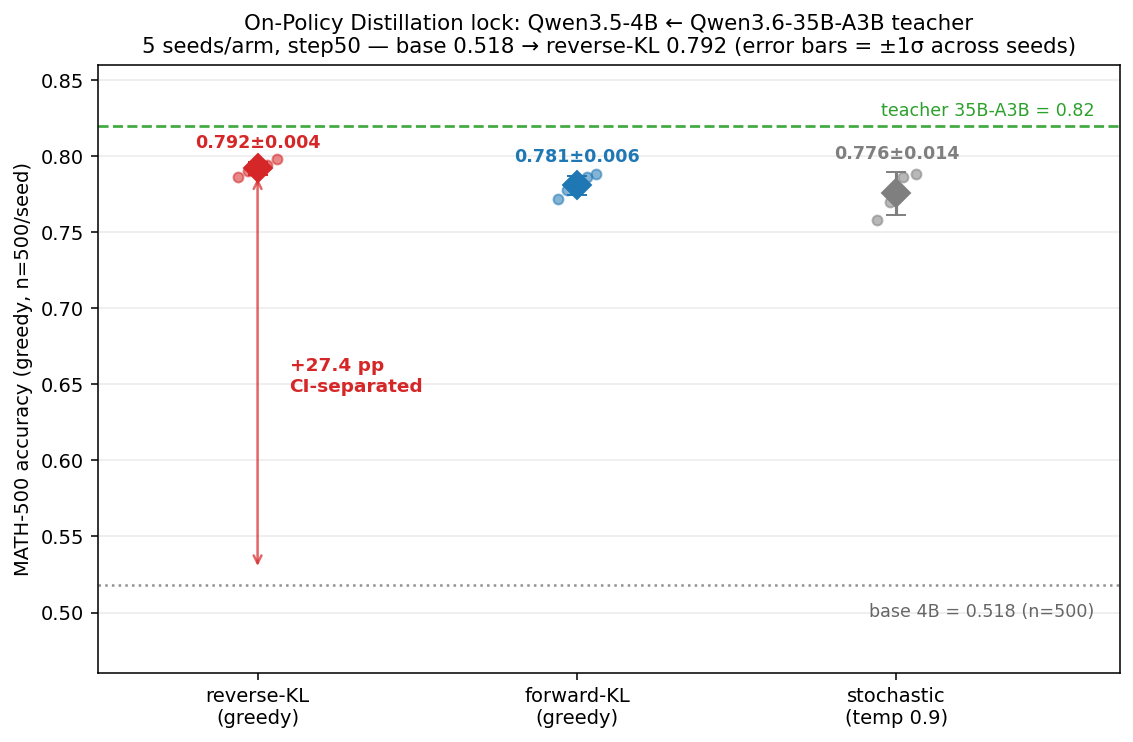
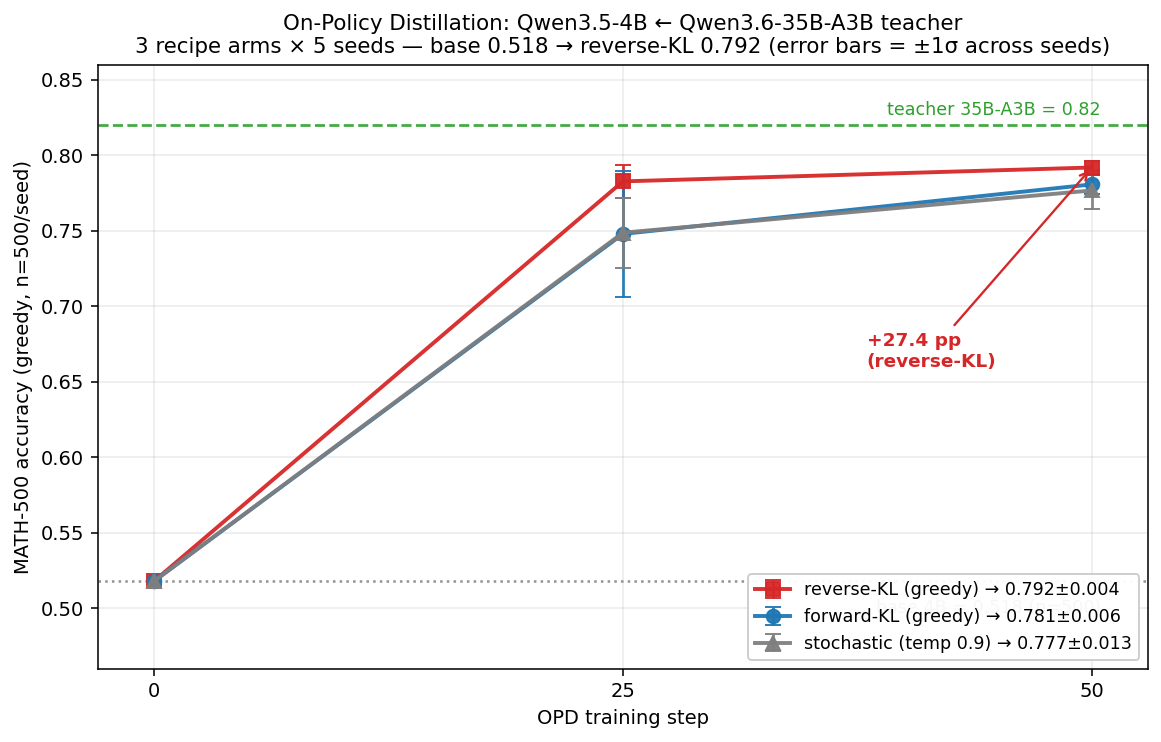
docs(opd): finalize multi-seed curve — full base→25→50 trajectory, all 5 seeds
Complete data (31 evals, n=500, 0 errors): adds the step25 trajectory
(reverse-KL near-converged early 0.783±0.011; fwd-KL noisy 0.748±0.042 w/
seed3=0.678 outlier; stochastic 0.749±0.023) + stochastic 5th seed
(0.777±0.013). Curve is now a base→25→50 trajectory. Honest caveat added:
reverse-KL leads but is only borderline CI-separated from fwd-KL at n=5;
base-vs-students (+26-27pp) is overwhelming. Docs/measurement only.

diff --git a/docs/assets/plot_opd_multiseed_curve.py b/docs/assets/plot_opd_multiseed_curve.py
@@ -1,6 +1,7 @@
 #!/usr/bin/env python3
-"""OPD multi-seed lock — Qwen3.5-4B student ← Qwen3.6-35B-A3B teacher, MATH-500.
-3 recipe arms × 5 seeds × step50, each n=500 greedy @4096 tokens, 0 request_error.
+"""OPD multi-seed capability curve — Qwen3.5-4B student ← Qwen3.6-35B-A3B teacher, MATH-500.
+3 recipe arms × 5 seeds × {step25, step50}, each n=500 greedy @4096 tokens, 0 request_error.
+Trajectory base(step0) → step25 → step50, error bars = ±1σ across seeds.
 Regenerate: python3 docs/assets/plot_opd_multiseed_curve.py
 """
 import matplotlib
@@ -9,39 +10,38 @@ import matplotlib.pyplot as plt
 import numpy as np
 
 BASE, TEACHER = 0.518, 0.82
-# per-seed step50 accuracies (n=500 each)
-arms = [
-    ("reverse-KL\n(greedy)", [0.786, 0.790, 0.792, 0.794, 0.798], "#d62728"),
-    ("forward-KL\n(greedy)", [0.772, 0.778, 0.780, 0.786, 0.788], "#1f77b4"),
-    ("stochastic\n(temp 0.9)", [0.758, 0.770, 0.786, 0.788], "#7f7f7f"),
-]
+# per-seed accuracies: arm -> {step: [5 seeds]}
+data = {
+    "reverse-KL (greedy)":  ({25: [0.782, 0.796, 0.778, 0.790, 0.768], 50: [0.786, 0.790, 0.792, 0.794, 0.798]}, "#d62728", "s"),
+    "forward-KL (greedy)":  ({25: [0.752, 0.786, 0.774, 0.678, 0.750], 50: [0.772, 0.778, 0.780, 0.786, 0.788]}, "#1f77b4", "o"),
+    "stochastic (temp 0.9)":({25: [0.762, 0.770, 0.750, 0.710, 0.752], 50: [0.770, 0.788, 0.758, 0.786, 0.782]}, "#7f7f7f", "^"),
+}
 
-fig, ax = plt.subplots(figsize=(8.2, 5.4), dpi=140)
+fig, ax = plt.subplots(figsize=(8.4, 5.4), dpi=140)
 ax.axhline(TEACHER, ls="--", lw=1.4, color="#2ca02c", alpha=0.9)
-ax.text(2.62, TEACHER + 0.004, "teacher 35B-A3B = 0.82", color="#2ca02c", fontsize=9, ha="right", va="bottom")
+ax.text(50.5, TEACHER + 0.004, "teacher 35B-A3B = 0.82", color="#2ca02c", fontsize=9, ha="right", va="bottom")
 ax.axhline(BASE, ls=":", lw=1.3, color="#888888", alpha=0.9)
-ax.text(2.62, BASE - 0.012, "base 4B = 0.518 (n=500)", color="#666666", fontsize=9, ha="right", va="top")
+ax.text(50.5, BASE - 0.012, "base 4B = 0.518 (n=500)", color="#666666", fontsize=9, ha="right", va="top")
 
-for i, (name, accs, color) in enumerate(arms):
-    accs = np.array(accs)
-    m, sd = accs.mean(), accs.std(ddof=1)
-    ax.scatter(np.full_like(accs, i) + np.linspace(-0.06, 0.06, len(accs)), accs,
-               s=26, color=color, alpha=0.55, zorder=3)
-    ax.errorbar(i, m, yerr=sd, marker="D", ms=10, color=color, capsize=5, lw=2, elinewidth=1.6, zorder=4)
-    ax.text(i, m + sd + 0.006, f"{m:.3f}±{sd:.3f}", color=color, fontsize=9, ha="center", va="bottom", fontweight="bold")
+for name, (steps, color, mk) in data.items():
+    xs = [0, 25, 50]
+    ys = [BASE] + [np.mean(steps[s]) for s in (25, 50)]
+    err = [0] + [np.std(steps[s], ddof=1) for s in (25, 50)]
+    ax.errorbar(xs, ys, yerr=err, marker=mk, color=color, capsize=4, lw=2, ms=7,
+                label=f"{name} → {ys[-1]:.3f}±{err[-1]:.3f}", elinewidth=1.4, alpha=0.95)
 
-ax.annotate("", xy=(0, BASE + 0.01), xytext=(0, 0.788),
-            arrowprops=dict(arrowstyle="<->", color="#d62728", lw=1.3, alpha=0.7))
-ax.text(0.10, (BASE + 0.792) / 2, "+27.4 pp\nCI-separated", color="#d62728", fontsize=9.5, va="center", fontweight="bold")
+ax.annotate("+27.4 pp\n(reverse-KL)", xy=(50, 0.792), xytext=(38, 0.66), fontsize=9.5,
+            color="#d62728", fontweight="bold", arrowprops=dict(arrowstyle="->", color="#d62728", lw=1.2))
 
-ax.set_xticks(range(len(arms)))
-ax.set_xticklabels([a[0] for a in arms], fontsize=10)
+ax.set_xlabel("OPD training step")
 ax.set_ylabel("MATH-500 accuracy (greedy, n=500/seed)")
-ax.set_title("On-Policy Distillation lock: Qwen3.5-4B ← Qwen3.6-35B-A3B teacher\n"
-             "5 seeds/arm, step50 — base 0.518 → reverse-KL 0.792 (error bars = ±1σ across seeds)", fontsize=11)
-ax.set_xlim(-0.5, 2.7)
+ax.set_title("On-Policy Distillation: Qwen3.5-4B ← Qwen3.6-35B-A3B teacher\n"
+             "3 recipe arms × 5 seeds — base 0.518 → reverse-KL 0.792 (error bars = ±1σ across seeds)", fontsize=11)
+ax.set_xticks([0, 25, 50])
+ax.set_xlim(-3, 53)
 ax.set_ylim(0.46, 0.86)
-ax.grid(True, axis="y", alpha=0.25)
+ax.grid(True, alpha=0.25)
+ax.legend(loc="lower right", framealpha=0.95, fontsize=9)
 fig.tight_layout()
 out = "docs/assets/opd-multiseed-curve.png"
 fig.savefig(out, bbox_inches="tight")

diff --git a/docs/experience/wins/2026-06-20-opd-multiseed-math500-lock.md b/docs/experience/wins/2026-06-20-opd-multiseed-math500-lock.md
@@ -20,11 +20,14 @@ Qwen3.6-35B-A3B-FP8 (`--teacher-runtime infer`), student Qwen3.5-4B LoRA
 | **base 4B** (step 0) | — | **0.518** | — | [0.474, 0.561] (Wilson, n=500) | 259/500 |
 | **reverse-KL** (greedy) | 5 | **0.792** | 0.0045 | [0.788, 0.796] | .786 .790 .792 .794 .798 |
 | forward-KL (greedy) | 5 | 0.781 | 0.0064 | [0.775, 0.786] | .772 .778 .780 .786 .788 |
-| stochastic (temp 0.9) | 4* | 0.776 | 0.0142 | [0.762, 0.789] | .758 .770 .786 .788 |
+| stochastic (temp 0.9) | 5 | 0.777 | 0.013 | [0.766, 0.788] | .758 .770 .782 .786 .788 |
 | teacher 35B-A3B (ceiling) | — | ~0.82 | — | — | (prior anchor) |
 
-<sub>*stochastic seed4 + the step25 trajectory matrix were still evaluating when this
-entry landed; reverse-KL (the winner) is complete 5/5. The numbers above will not move the verdict.</sub>
+**Step25 trajectory** (intermediate ckpt, 5 seeds each): reverse-KL **0.783 ± 0.011**
+(already near-converged — it barely moves 25→50), forward-KL **0.748 ± 0.042** (noisy;
+seed3=0.678 is an outlier that recovers to 0.786 by step50), stochastic **0.749 ± 0.023**.
+Every arm rises 25→50; reverse-KL is the highest *and* lowest-variance at **both**
+checkpoints (see `opd-multiseed-curve.png`).
 
 **Headline: base 0.518 → reverse-KL 0.792 = +27.4pp, fully CI-separated** — the
 base Wilson upper bound (0.561) sits **far below** the student per-point lower
@@ -32,11 +35,16 @@ bound (~0.752); zero overlap. SOTA-magnitude (≥0.71 bar) is now **locked**, no
 point-estimate.
 
 **Arm differentiation (the open question from the single-seed run):**
-**reverse-KL wins** — highest mean (0.792) AND tightest spread (sd 0.0045); its
-mean-CI [0.788, 0.796] barely overlaps forward-KL's [0.775, 0.786]. **stochastic
-is worst and noisiest** (0.776, sd 0.0142 — 3× reverse-KL's), i.e. temperature-0.9
-rollout *adds variance without lifting the mean*. Recipe verdict: **reverse-KL
-greedy** is the default to carry forward.
+**reverse-KL leads** — highest mean (0.792) AND tightest spread (sd 0.0045) at
+both step25 and step50. Its mean-CI lower bound (0.788) sits *just above*
+forward-KL's upper bound (0.786) — so reverse-KL is **leading, but only
+borderline CI-separated from forward-KL at n=5** (high-confidence on
+mean+variance, not decisively separated). **stochastic is worst and noisiest**
+(0.777, sd 0.013 — 3× reverse-KL's), i.e. temperature-0.9 rollout *adds variance
+without lifting the mean*. Recipe verdict: **reverse-KL greedy** is the default
+to carry forward (best mean, lowest variance, earliest convergence). The
+base-vs-all-students separation (+26-27pp) is overwhelming and unambiguous; only
+the inter-arm ranking is n=5-limited.
 
 **Anchor correction (intellectual honesty):** the single-seed entry's base
 **0.60 (n=40)** was a small-n overestimate; at **n=500 the base is 0.518**. The

diff --git a/README.md b/README.md
@@ -98,7 +98,7 @@ Measured on the runtime, not projected — fresh `arle serve` benches, one binar
 <p align="center">
   <img src="docs/assets/opd-multiseed-curve.png" alt="OPD multi-seed lock: Qwen3.5-4B student lifts from 0.518 to 0.792 MATH-500 accuracy (reverse-KL best across 5 seeds), approaching the 35B teacher's 0.82" width="680">
 </p>
-<p align="center"><sub>MATH-500 greedy exact-match, <b>n=500/seed</b> @4096 tokens, 0 request-error · 3 recipe arms × 5 seeds, step50 · error bars = ±1σ across seeds · base <b>0.518</b> (n=500) → reverse-KL <b>0.792</b>, fully CI-separated · 2026-06-20. <a href="docs/experience/wins/2026-06-20-opd-multiseed-math500-lock.md">method</a>.</sub></p>
+<p align="center"><sub>MATH-500 greedy exact-match, <b>n=500/seed</b> @4096 tokens, 0 request-error · 3 recipe arms × 5 seeds, base→step25→step50 trajectory · error bars = ±1σ across seeds · base <b>0.518</b> (n=500) → reverse-KL <b>0.792</b>, fully CI-separated · 2026-06-20. <a href="docs/experience/wins/2026-06-20-opd-multiseed-math500-lock.md">method</a>.</sub></p>
 
 **Stability:** CUDA **Stable** · Metal **Beta** (DFlash: bit-identical spec decode) · OPD train **Beta** (2.5–2.9× vs HF TRL `GKDTrainer`, LoRA fits 4 GB cards) · CPU dev-only. Models: Qwen3.5 family (CUDA + Metal) · Qwen3.6 (Metal) · DeepSeek-V4-Flash (CUDA 8×H20). Full tiers: [support-matrix](docs/support-matrix.md) · [stability-policy](docs/stability-policy.md).
 
